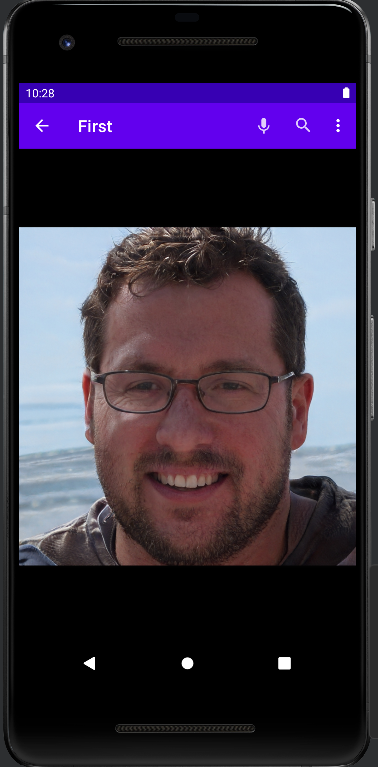
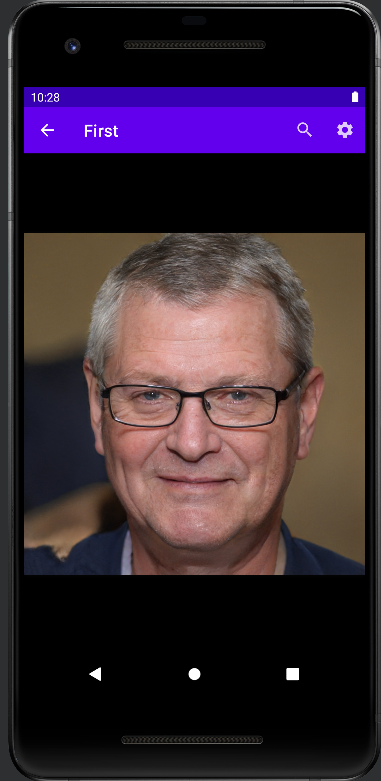
README y appbar modificados

diff --git a/app/src/main/java/com/afernandezcar/first/Main.java b/app/src/main/java/com/afernandezcar/first/Main.java
@@ -48,6 +48,9 @@ public class Main extends AppCompatActivity {
         //  miVisorWeb.getSettings().setJavaScriptEnabled(true);
         miVisorWeb.getSettings().setBuiltInZoomControls(true);
         miVisorWeb.loadUrl("https://thispersondoesnotexist.com");
+
+        swipeLayout = (SwipeRefreshLayout) findViewById(R.id.myswipe);
+        swipeLayout.setOnRefreshListener(mOnRefreshListener);
     }
 
     // DIALOGO MODAL
@@ -58,7 +61,7 @@ public class Main extends AppCompatActivity {
         MaterialAlertDialogBuilder builder = new MaterialAlertDialogBuilder(this);
 
 //        //el dialogo estandar tiene título/icono pero podemos sustituirlo por un XML a medida
-        builder.setTitle("Achtung!");
+        builder.setTitle("Vas a abandorme!");
         builder.setMessage("Where do you go?");
         builder.setIcon(R.drawable.mono);
         builder.setCancelable(false);
@@ -71,7 +74,7 @@ public class Main extends AppCompatActivity {
             @Override
             public void onClick(DialogInterface dialog, int which) {
                 // do something like...
-                Intent intent = new Intent(Main.this, SignupActivity.class);
+                Intent intent = new Intent(Main.this, LoginActivity.class);
                 startActivity(intent);
                 dialog.dismiss();
 
@@ -93,8 +96,9 @@ public class Main extends AppCompatActivity {
             public void onClick(DialogInterface dialog, int which) {
 
                 // do something like...
-
                 dialog.dismiss();
+                 System.exit(0);
+
             }
         });
 
@@ -130,16 +134,16 @@ public class Main extends AppCompatActivity {
         // as you specify a parent activity in AndroidManifest.xml.
         int id = item.getItemId();
 
-        if (id == R.id.item1) {
+        if (id == R.id.itemset) {
 //            showAlertDialogButtonClicked(Main.this);
 
-            Toast toast = Toast.makeText(this, "Rec", Toast.LENGTH_LONG);
-            toast.show();
+            Toast toast8 = Toast.makeText(this, "Settings", Toast.LENGTH_LONG);
+            toast8.show();
 
         }
-        if (id == R.id.item2) {
-            Toast toast = Toast.makeText(this, "Searching", Toast.LENGTH_LONG);
-            toast.show();
+        if (id == R.id.itemsearch) {
+            Toast toast9 = Toast.makeText(this, "Search", Toast.LENGTH_LONG);
+            toast9.show();
         }
 
         if (id == R.id.item3) {
@@ -189,21 +193,8 @@ public class Main extends AppCompatActivity {
                 return true;
 
             case R.id.item2:
-                Toast toast1 =Toast.makeText(this, "Item copied", Toast.LENGTH_LONG);
-                toast1.show();
-//                final ConstraintLayout mLayout2 = findViewById(R.id.myMainConstraint);
-//
-//                Snackbar snackbar2 = Snackbar
-//                        .make(mLayout2, "fancy a Snack while you refresh?", Snackbar.LENGTH_LONG)
-//                        .setAction("UNDO", new View.OnClickListener() {
-//                            @Override
-//                            public void onClick(View view) {
-//                                Snackbar snackbar3 = Snackbar.make(mLayout2, "Action is restored!", Snackbar.LENGTH_SHORT);
-//                                snackbar3.show();
-//                            }
-//                        });
-//
-//                snackbar2.show();
+                Toast toast2 =Toast.makeText(this, "Downloading item...", Toast.LENGTH_LONG);
+                toast2.show();
                 return true;
 
             default:

diff --git a/README.md b/README.md
@@ -16,10 +16,13 @@
 
    ![image_splash_internet](img/logo_splash_normal.png)  ![image_splash_internet](img/logo_splash_zoom.png)
 
- *Logo splash with name project  [Splash_xml](https://github.com/AlmuFerCar/First/blob/master/app/src/main/res/layout/activity_splash.xml)
-    *change font [Letra_Splash](https://github.com/AlmuFerCar/First/blob/master/app/src/main/res/font/barriecito.xml)
-    *background gradient (the background is not visible because when starting the image or java background is loaded)[Gradiente_fondo_Splash](https://github.com/AlmuFerCar/First/blob/master/app/src/main/res/drawable/gradient.xml)
+ * Logo splash with name project  [Splash_xml](https://github.com/AlmuFerCar/First/blob/master/app/src/main/res/layout/activity_splash.xml)
    
+   
+   * change font [Letra_Splash](https://github.com/AlmuFerCar/First/blob/master/app/src/main/res/font/barriecito.xml)
+
+
+   * background gradient (the background is not visible because when starting the image or java background is loaded)[Gradiente_fondo_Splash](https://github.com/AlmuFerCar/First/blob/master/app/src/main/res/drawable/gradient.xml)
 
    ![imagen_splash_internet](img/vista_splash_sin_java.png)
 
@@ -81,7 +84,92 @@ This view is similar to login view
 ## MAIN VIEW
 
 
+* Main View java [main java](https://github.com/AlmuFerCar/First/blob/master/app/src/main/java/com/afernandezcar/first/Main.java)
 
+
+* Main View xml (WebView) [main xml](https://github.com/AlmuFerCar/First/blob/master/app/src/main/res/layout/activity_main.xml)
+
+
+   ![main view](img/main_1.png)
+
+
+*Option select image
+
+
+   ![select image](img/context_menu.png)
+
+
+   * if you select copy
+
+
+   ![select image](img/context_menu_copy.png)
+
+
+* option zoom image and image with zoom
+
+
+   ![zoom image](img/imagen_zoom.png) ![zoom image](img/imagen_con_zoom.png)
+
+
+* App bar menu with back arrow
+
+
+[change file Manifest](https://github.com/AlmuFerCar/First/blob/master/app/src/main/AndroidManifest.xml)        
+
+
+```XML
+    <activity
+      android:name=".Main"
+      android:exported="true"
+      android:parentActivityName=".LoginActivity">
+      <meta-data
+      android:name="android.app.lib_name"
+      android:value="" />
+    </activity>
+```
+
+
+   ![appbar menu](img/appbar.png)
+
+
+* Refresh Webview
+
+
+[main java](https://github.com/AlmuFerCar/First/blob/master/app/src/main/java/com/afernandezcar/first/Main.java)
+
+
+   ![refresh web view icon](img/main_2.png)
+
+
+* Click search and settings icons
+
+
+[main java](https://github.com/AlmuFerCar/First/blob/master/app/src/main/java/com/afernandezcar/first/Main.java)
+
+
+[appbar menu](https://github.com/AlmuFerCar/First/blob/master/app/src/main/res/menu/menu_appbar.xml)
+
+
+   ![search bottom](img/main_3.png) ![settings bottom](img/main_4.png)
+
+
+* Click on the settings button and display the menu with an option with an icon
+
+
+   ![setting_bottom_display](img/main_6.png)
+
+
+* Message click sign out with logo in the message
+
+
+   ![message sign out](img/main_7.png)
+
+ 
+
+|TITULO1 |TITULO2 |
+|:-----:|:----:|
+|       |      |
+| CONTENIDO COLUMNA 1 | CONTENIDO COLUMNA 2 |
 
 
 
